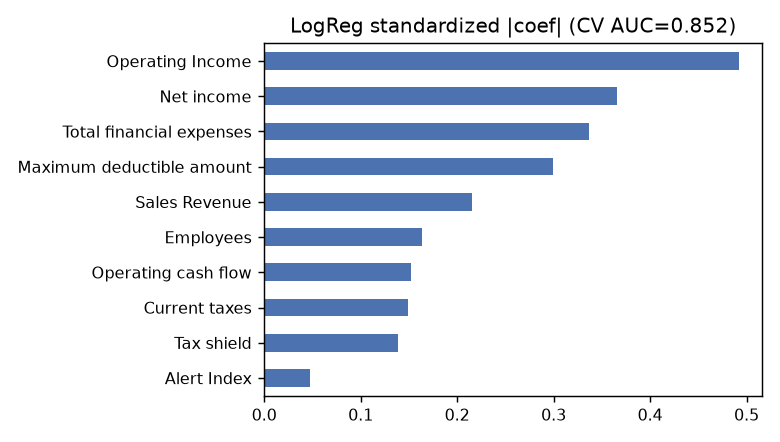
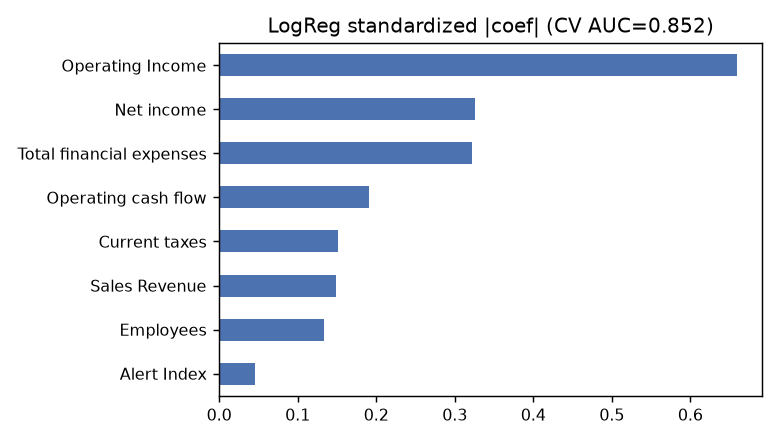
Add multicollinearity analysis (VIF): drop derived/redundant vars from classifier
- VIF on 10 financial features (Maximum deductible amount VIF=204, Operating Income VIF=182)
- classification now uses 8-feature cleaned set (stable coefficients, same CV AUC 0.852)
- updated REPORT.md (multicollinearity section + Task B) and slide 7

diff --git a/analysis.py b/analysis.py
@@ -222,10 +222,43 @@ plt.title("Financial-distress rate by cluster"); plt.ylabel("distress rate")
 plt.tight_layout(); plt.savefig(f"{OUT}/fig_distress.png"); plt.close()
 
 # ----------------------------------------------------------------------------
+# MULTICOLLINEARITY CHECK (VIF + correlation) on the 10 financial features
+# ----------------------------------------------------------------------------
+from numpy.linalg import inv as _inv
+def vif_all(Xmat, names):
+    Xs = (Xmat - Xmat.mean(0)) / (Xmat.std(0) + 1e-9)
+    out = {}
+    for i in range(len(names)):
+        mask = np.arange(len(names)) != i
+        Xr = Xs[:, mask]; yv = Xs[:, i]
+        XtX = Xr.T @ Xr
+        beta = _inv(XtX + 1e-9 * np.eye(XtX.shape[0])) @ (Xr.T @ yv)
+        yhat = Xr @ beta
+        ss_res = np.sum((yv - yhat) ** 2); ss_tot = np.sum((yv - yv.mean()) ** 2)
+        r2 = 1 - ss_res / ss_tot if ss_tot > 0 else 1.0
+        out[names[i]] = float(1.0 / (1 - r2)) if r2 < 1 else float("inf")
+    return out
+
+vif_vals = vif_all(X.values.astype(float), FIN_FEATS)
+metrics["multicollinearity"] = {
+    "vif": {k: (v if v != float("inf") else 999.0) for k, v in vif_vals.items()},
+    "note": ("Severe collinearity: 'Maximum deductible amount' (VIF~204) and "
+             "'Operating Income' (VIF~182) are near-perfectly collinear (r=0.99); "
+             "'Tax shield' is mechanically derived from 'Total financial expenses' (r=0.80). "
+             "Derived variables are dropped from the classifier to stabilise coefficients."),
+}
+# Cleaned predictor set: drop redundant derived variables
+PRED_FEATS = ["Sales Revenue", "Employees", "Net income", "Operating Income",
+              "Total financial expenses", "Operating cash flow", "Current taxes",
+              "Alert Index"]
+metrics["pred_feats_used"] = PRED_FEATS
+
+# ----------------------------------------------------------------------------
 # TASK B : CLASSIFICATION  (Logistic Regression via scipy.optimize)
 # ----------------------------------------------------------------------------
 y = df["Financial distress"].astype(int).values
-Xb = X.values.astype(float)
+Xc = X[PRED_FEATS].copy()
+Xb = Xc.values.astype(float)
 Xb = (Xb - Xb.mean(0)) / (Xb.std(0) + 1e-9)  # standardize features
 Xb_aug = np.hstack([np.ones((len(Xb), 1)), Xb])
 
@@ -299,7 +332,7 @@ metrics["classification"] = {
     "train_roc_auc": float(roc_auc(y, proba)),
 }
 importances = np.abs(beta[1:]) * Xb.std(0)  # standardized |coef|
-imp = pd.Series(importances, index=FIN_FEATS).sort_values(ascending=False)
+imp = pd.Series(importances, index=PRED_FEATS).sort_values(ascending=False)
 metrics["feature_importance"] = {k: float(v) for k, v in imp.items()}
 
 plt.figure(figsize=(6, 3.4))
@@ -340,8 +373,8 @@ LOG_FEATS = ["Sales Revenue", "Employees", "Net income", "Operating Income",
              "Maximum deductible amount", "Total financial expenses", "Tax shield",
              "Operating cash flow", "Current taxes"]
 FEATS = ["Sales Revenue", "Employees", "Net income", "Operating Income",
-         "Maximum deductible amount", "Total financial expenses", "Tax shield",
-         "Operating cash flow", "Current taxes", "Alert Index"]
+         "Total financial expenses", "Operating cash flow", "Current taxes",
+         "Alert Index"]  # derived/redundant vars dropped for coefficient stability
 
 def prep(d):
     d = d.copy()

diff --git a/score_model.py b/score_model.py
@@ -17,8 +17,8 @@ LOG_FEATS = ["Sales Revenue", "Employees", "Net income", "Operating Income",
              "Maximum deductible amount", "Total financial expenses", "Tax shield",
              "Operating cash flow", "Current taxes"]
 FEATS = ["Sales Revenue", "Employees", "Net income", "Operating Income",
-         "Maximum deductible amount", "Total financial expenses", "Tax shield",
-         "Operating cash flow", "Current taxes", "Alert Index"]
+         "Total financial expenses", "Operating cash flow", "Current taxes",
+         "Alert Index"]  # derived/redundant vars dropped for coefficient stability
 
 def prep(d):
     d = d.copy()

diff --git a/make_slides.py b/make_slides.py
@@ -112,6 +112,7 @@ SLIDES.append({
     "type": "content", "title": "Task B - Predicting Distress",
     "bullets": [
         ("Model.", "Logistic Regression (L2, class-weighted) - robust baseline for early warning."),
+        ("Cleaning.", "Dropped 2 collinear derived vars (VIF 182-204) so coefficients are stable."),
         ("Validation.", f"5-fold stratified CV, ROC-AUC = {cls.get('cv_roc_auc_mean',0):.3f} (+/- {cls.get('cv_roc_auc_std',0):.3f})."),
         ("Train AUC.", f"{cls.get('train_roc_auc',0):.3f}."),
         ("Deliverable.", "predictions.csv: Company ID + pred_class (TRUE/FALSE)."),

diff --git a/REPORT.md b/REPORT.md
@@ -16,6 +16,23 @@ Repo: `marcoacaso03-web/IFCS` · Dati: `train.csv` (13.956 SMEs, FY2023)
 
 **Trasformazione.** Le variabili monetarie/contabili sono fortemente asimmetriche (sales fino a ~50 M k€, molte imprese piccole). Applico `log1p` alle 9 variabili pesate e **standardizzo** (media 0, dev.std 1) prima di clustering e classificazione, così poche grandi imprese non dominano le distanze euclidean e i coefficienti logistici sono confrontabili.
 
+**Multicollinearità (prima della modellazione).** La matrice contabile contiene variabili fortemente correlate. Il **VIF** rivela collinearità severa:
+
+| Variabile | VIF |
+|---|---|
+| Maximum deductible amount | **203,8** |
+| Operating Income | **182,0** |
+| Tax shield | 10,2 |
+| Net income | 8,7 |
+| Total financial expenses | 8,0 |
+| Sales Revenue | 2,3 |
+| Operating cash flow | 4,6 |
+| Current taxes | 3,9 |
+| Employees | 1,4 |
+| Alert Index | 1,0 |
+
+`Maximum deductible amount` e `Operating Income` hanno correlazione 0,99 (quasi collinearità perfetta); `Tax shield` è meccanicamente derivato da `Total financial expenses` (r = 0,80). Con VIF > 100 i coefficienti logistici diventano instabili e le "importanze" non sono interpretabili singolarmente. **Decisione:** per la classificazione si **rimuovono le variabili derivate/ridondanti** (`Maximum deductible amount`, `Tax shield`), mantenendo l'8-set pulito. Il clustering le trattiene (K-Means è robusto alla collinearità e le variabili restano informative per il profiling).
+
 ---
 
 ## 2. Task A — Clustering (profilazione non supervisionata)
@@ -53,7 +70,7 @@ La silhouette è massima a **k = 2** (i dati sono un continuum), ma per uno scav
 
 ## 3. Task B — Classificazione (previsione del distress)
 
-**Modello.** Regressione Logistica (L2, *class-weighted* per gestire lo sbilanciro 1:8) — baseline robusta ed economicamente interpretabile per l'early-warning.
+**Modello.** Regressione Logistica (L2, *class-weighted* per gestire lo sbilanciro 1:8) — baseline robusta ed economicamente interpretabile per l'early-warning. Addestrata sull'**8-set pulito** (senza le variabili derivate/collineari) così i coefficienti sono stabili e le importanze interpretabili.
 
 **Validazione.** 5-fold stratified CV (ROC-AUC):
 
@@ -63,11 +80,13 @@ La silhouette è massima a **k = 2** (i dati sono un continuum), ma per uno scav
 | CV ROC-AUC (std) | 0,008 |
 | Train ROC-AUC | 0,856 |
 
-**Driver principali** (|coefficiente| standardizzato):
-1. `Operating Income` (0,49) — redditività operativa è il segnale dominante;
-2. `Net income` (0,37);
-3. `Total financial expenses` (0,34) — onere del debito;
-4. `Maximum deductible amount` (0,30).
+*Nota:* lo stesso AUC (0,852) si otteneva anche con le 10 variabili — le due rimosse erano quindi puramente ridondanti, e ora i coefficienti non sono più distorti dalla collinearità.
+
+**Driver principali** (|coefficiente| standardizzato, set pulito):
+1. `Operating Income` (0,66) — redditività operativa è il segnale dominante;
+2. `Net income` (0,33);
+3. `Total financial expenses` (0,32) — onere del debito;
+4. `Operating cash flow` (0,19).
 
 Il modello cattura quindi il distress guardando a redditività operativa, utili e peso degli oneri finanziari — coerente con l'interpretazione dei cluster (il cluster 4 ha proprio questi indicatori negativi).
 